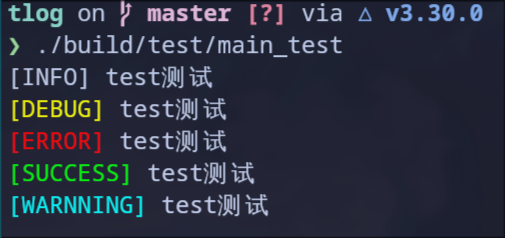
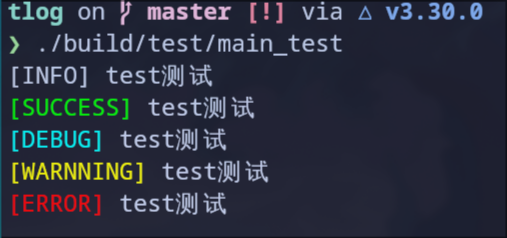
minor changes

diff --git a/test/main.cpp b/test/main.cpp
@@ -1,10 +1,10 @@
 #include <tlog.h>
 
 auto main() -> int {
-    tlog::tprint({"test", "测试"}, tlog::tlog_status::INFO, tlog::NO_LOG_FILE);
-    tlog::tprint({"test", "测试"}, tlog::tlog_status::DEBUG, tlog::NO_LOG_FILE);
-    tlog::tprint({"test", "测试"}, tlog::tlog_status::ERROR, tlog::NO_LOG_FILE);
-    tlog::tprint({"test", "测试"}, tlog::tlog_status::SUCCESS, tlog::NO_LOG_FILE);
-    tlog::tprint({"test", "测试"}, tlog::tlog_status::WARNNING, tlog::NO_LOG_FILE);
-    return 0;
+  tlog::tprint({"test", "测试"}, tlog::tlog_status::INFO, tlog::NO_LOG_FILE);
+  tlog::tprint({"test", "测试"}, tlog::tlog_status::SUCCESS, tlog::NO_LOG_FILE);
+  tlog::tprint({"test", "测试"}, tlog::tlog_status::DEBUG, tlog::NO_LOG_FILE);
+  tlog::tprint({"test", "测试"}, tlog::tlog_status::WARNNING, tlog::NO_LOG_FILE);
+  tlog::tprint({"test", "测试"}, tlog::tlog_status::ERROR, tlog::NO_LOG_FILE);
+  return 0;
 }

diff --git a/src/tlog.cpp b/src/tlog.cpp
@@ -12,12 +12,12 @@
 namespace tlog {
 
 static const std::string INFO_PREFIX = "[INFO]";
-// rgb(255, 255, 0): yellow
-static const std::string DEBUG_PREFIX =
-    fmt::format(fg(fmt::rgb(255, 255, 0)), "[DEBUG]");
 // rgb(0, 255, 255): blue
+static const std::string DEBUG_PREFIX =
+    fmt::format(fg(fmt::rgb(0, 255, 255)), "[DEBUG]");
+// rgb(255, 255, 0): yellow
 static const std::string WARNNING_PREFIX =
-    fmt::format(fg(fmt::rgb(0, 255, 255)), "[WARNNING]");
+    fmt::format(fg(fmt::rgb(255, 255, 0)), "[WARNNING]");
 // rgb(255, 0, 0): red
 static const std::string ERROR_PREFIX =
     fmt::format(fg(fmt::rgb(255, 0, 0)), "[ERROR]");

diff --git a/README.md b/README.md
@@ -17,13 +17,13 @@ You can refer to the test program source file in the test directory
 #include <tlog.h>
 
 auto main() -> int {
-tlog::tprint({"test", "测试"}, tlog::tlog_status::INFO, tlog::NO_LOG_FILE);
-tlog::tprint({"test", "测试"}, tlog::tlog_status::DEBUG, tlog::NO_LOG_FILE);
-tlog::tprint({"test", "测试"}, tlog::tlog_status::ERROR, tlog::NO_LOG_FILE);
-tlog::tprint({"test", "测试"}, tlog::tlog_status::SUCCESS, tlog::NO_LOG_FILE);
-tlog::tprint({"test", "测试"}, tlog::tlog_status::WARNNING, tlog::NO_LOG_FILE);
-return 0;
-}
+  tlog::tprint({"test", "测试"}, tlog::tlog_status::INFO, tlog::NO_LOG_FILE);
+  tlog::tprint({"test", "测试"}, tlog::tlog_status::SUCCESS, tlog::NO_LOG_FILE);
+  tlog::tprint({"test", "测试"}, tlog::tlog_status::DEBUG, tlog::NO_LOG_FILE);
+  tlog::tprint({"test", "测试"}, tlog::tlog_status::WARNNING, tlog::NO_LOG_FILE);
+  tlog::tprint({"test", "测试"}, tlog::tlog_status::ERROR, tlog::NO_LOG_FILE);
+  return 0;
+
 ```
 
 The first parameter of `tlog::tprint()` is the value to be output, which is a `std::initializer_list<std::string_view>` class. The second parameter is the level of the message. tlog provides five levels: `SUCCESS`, `INFO`, `DEBUG`, `WARNNING` and `ERROR`. The third parameter is used to indicate the content of the log file where the log information is saved. By default, two are provided: `tlog::NO_LOG_FILE` and `tlog::DEFAULT_LOG_FILE`. The former is set to not generate a log file, and the latter is a default log file path **/tmp/tlog.log**.
@@ -31,3 +31,7 @@ The first parameter of `tlog::tprint()` is the value to be output, which is a `s
 demo:
 
 ![tprint demo](assets/img/tlog_tprint_demo.png)
+
+## Development
+
+When compiling a project with CMake, you can add `-DTLOG_DEV_TEST=ON` to add test cases. If you use [Visual Studio Code](https://code.visualstudio.com/) to develop, I have added this setting to **.vscode/settings.json**. You only need to install the [CMake Tools](https://github.com/microsoft/vscode-cmake-tools) plugin to use it.

diff --git a/README_ZH_CN.md b/README_ZH_CN.md
@@ -17,13 +17,13 @@ C++ 标准: C++ 17
 #include <tlog.h>
 
 auto main() -> int {
-    tlog::tprint({"test", "测试"}, tlog::tlog_status::INFO, tlog::NO_LOG_FILE);
-    tlog::tprint({"test", "测试"}, tlog::tlog_status::DEBUG, tlog::NO_LOG_FILE);
-    tlog::tprint({"test", "测试"}, tlog::tlog_status::ERROR, tlog::NO_LOG_FILE);
-    tlog::tprint({"test", "测试"}, tlog::tlog_status::SUCCESS, tlog::NO_LOG_FILE);
-    tlog::tprint({"test", "测试"}, tlog::tlog_status::WARNNING, tlog::NO_LOG_FILE);
-    return 0;
-}
+  tlog::tprint({"test", "测试"}, tlog::tlog_status::INFO, tlog::NO_LOG_FILE);
+  tlog::tprint({"test", "测试"}, tlog::tlog_status::SUCCESS, tlog::NO_LOG_FILE);
+  tlog::tprint({"test", "测试"}, tlog::tlog_status::DEBUG, tlog::NO_LOG_FILE);
+  tlog::tprint({"test", "测试"}, tlog::tlog_status::WARNNING, tlog::NO_LOG_FILE);
+  tlog::tprint({"test", "测试"}, tlog::tlog_status::ERROR, tlog::NO_LOG_FILE);
+  return 0;
+
 ```
 
 `tlog::tprint()` 的第一个参数是要输出的值，这是一个 `std::initializer_list<std::string_view>` 类，第二个参数是该消息的级别，tlog 提供了五个级别: `SUCCESS`, `INFO`, `DEBUG`, `WARNNING` 和 `ERROR`，第三个参数用于表示该log信息保存的日志文件内容，默认提供了两个: `tlog::NO_LOG_FILE` 和 `tlog::DEFAULT_LOG_FILE`，前者设置不产生日志文件，后者是一个默认的日志文件路径 **/tmp/tlog.log**。
@@ -31,3 +31,7 @@ auto main() -> int {
 效果图:
 
 ![tprint demo](assets/img/tlog_tprint_demo.png)
+
+## 开发
+
+使用 CMake 编译项目时可以添加 `-DTLOG_DEV_TEST=ON` 即添加测试用例。如果使用 [Visual Studio Code](https://code.visualstudio.com/) 开发的话，我已经将该设置添加到 **.vscode/settings.json** 中了，只需要安装 [CMake Tools](https://github.com/microsoft/vscode-cmake-tools) 插件即可使用。
